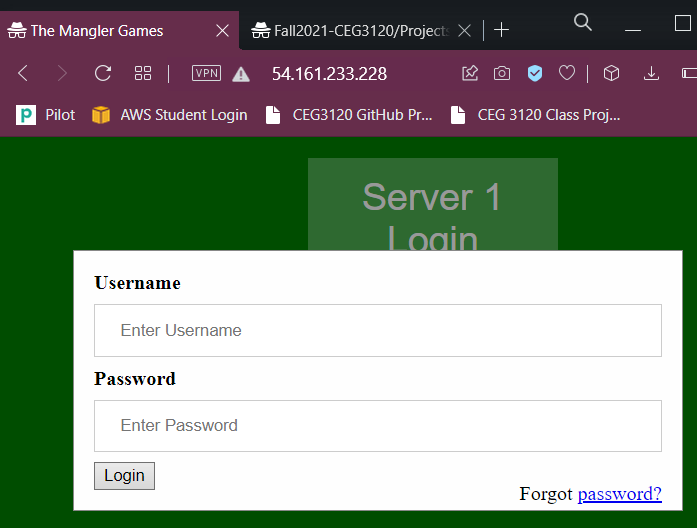
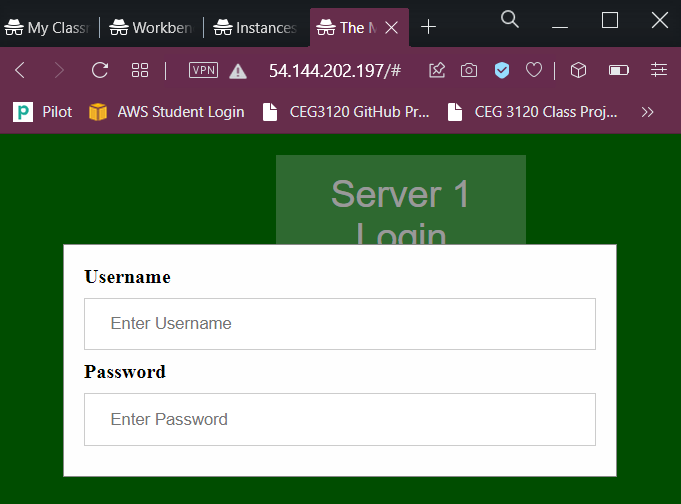
update screenshots and added site link

diff --git a/Projects/Project5/README.md b/Projects/Project5/README.md
@@ -12,6 +12,7 @@
             default_backend backservers
 
         backend backservers
+            balance roundrobin
             mode http
             server s1 10.0.0.9:80
             server s2 10.0.0.10:80
@@ -34,3 +35,7 @@
     Web Server 2
 
     ![Web Server 2 screenshot](Server2Site.PNG)
+
+6. 
+
+    Link to Site: http://54.144.202.197
